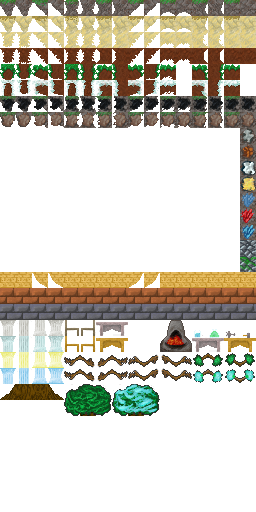
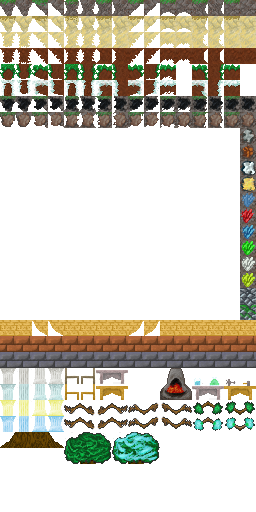
Gem update
Gems now spawn in the world.
Diamonds, sapphires, emeralds, and rubies now use the appropriate
texture.
Opal and Jasper now exists.
Pillar items have been removed.
Furniture and ores now use the correct textures.

Changed region(s): [[0.0, 0.4688, 1.0, 0.9062]]

diff --git a/TerraeRasa/TerraeRasa/src/blocks/Block.java b/TerraeRasa/TerraeRasa/src/blocks/Block.java
@@ -527,41 +527,41 @@ public class Block extends ActionbarItem
 			.setBlockHardness(1.0f).setIconIndex(2, 3).setPassable(true)
 			.setBlockType(2).setIsSolid(false);
 	public static Block tree = new BlockWood(9).setName("Tree").setTileMap('t')
-			.setBlockHardness(60.0f).setIconIndex(1, 24).setPassable(true)
+			.setBlockHardness(60.0f).setIconIndex(1, 27).setPassable(true)
 			.setBlockType(2).setIsSolid(false);
 	public static Block treebase = new BlockWood(10).setName("tree base")
-			.setTileMap('t').setBlockHardness(60.0f).setIconIndex(0, 24)
+			.setTileMap('t').setBlockHardness(60.0f).setIconIndex(0, 27)
 			.setPassable(true).setBlockType(2).setIsSolid(false);
 	public static Block treebranch = new BlockWood(12).setName("tree branch")
-			.setTileMap('b').setBlockHardness(5.0f).setIconIndex(4, 22)
+			.setTileMap('b').setBlockHardness(5.0f).setIconIndex(4, 25)
 			.setPassable(true).setIsSolid(false);
 	public static Block treetop = new BlockLeaves(20)
 			.setName("tree top left top").setTileMap('T')
-			.setBlockHardness(5.0f).setIconIndex(4, 24).setPassable(true)
+			.setBlockHardness(5.0f).setIconIndex(4, 27).setPassable(true)
 			.setIsSolid(false);
 	public static Block treetopl2 = new BlockLeaves(21)
 			.setName("tree top left bottom").setTileMap('T')
-			.setBlockHardness(5.0f).setIconIndex(4, 25).setPassable(true)
+			.setBlockHardness(5.0f).setIconIndex(4, 28).setPassable(true)
 			.setIsSolid(false);
 	public static Block treetopc1 = new BlockLeaves(22)
 			.setName("tree top center top").setTileMap('T')
-			.setBlockHardness(5.0f).setIconIndex(5, 24).setPassable(true)
+			.setBlockHardness(5.0f).setIconIndex(5, 27).setPassable(true)
 			.setIsSolid(false);
 	public static Block treetopc2 = new BlockLeaves(23)
 			.setName("tree top center bottom").setTileMap('T')
-			.setBlockHardness(5.0f).setIconIndex(5, 25).setPassable(true)
+			.setBlockHardness(5.0f).setIconIndex(5, 28).setPassable(true)
 			.setIsSolid(false);
 	public static Block treetopr1 = new BlockLeaves(24)
 			.setName("tree top right top").setTileMap('T')
-			.setBlockHardness(5.0f).setIconIndex(6, 24).setPassable(true)
+			.setBlockHardness(5.0f).setIconIndex(6, 27).setPassable(true)
 			.setIsSolid(false);
 	public static Block treetopr2 = new BlockLeaves(25)
 			.setName("tree top right bottom").setTileMap('T')
-			.setBlockHardness(5.0f).setIconIndex(6, 25).setPassable(true)
+			.setBlockHardness(5.0f).setIconIndex(6, 28).setPassable(true)
 			.setIsSolid(false);
-	public static Block gold = new BlockOre(26).setName("Bold Ore Block")
+	public static Block gold = new BlockOre(26).setName("Gold Ore Block")
 			.setBlockHardness(10.0f).setHRange(0).setLRange(3)
-			.setIconIndex(15, 12).setBlockType(1)
+			.setIconIndex(15, 11).setBlockType(1)
 			.setDroppedItem(new ItemStack(Item.goldOre), 1, 1);
 	public static Block iron = new BlockOre(27).setName("Iron Ore Block")
 			.setBlockHardness(10.0f).setHRange(5).setLRange(10)
@@ -572,28 +572,48 @@ public class Block extends ActionbarItem
 			.setBlockHardness(10.0f).setIconIndex(15, 7).setBlockType(1)
 			.setDroppedItem(new ItemStack(Item.coal), 1, 1);
 	public static Block diamond = new BlockOre(29).setName("Diamond Ore Block")
-			.setBlockHardness(10.0f).setHRange(0).setLRange(1)
-			.setIconIndex(15, 15).setBlockType(1)
+			.setBlockHardness(10.0f).setLRange(10)
+			.setIconIndex(15, 14).setBlockType(1)
 			.setDroppedItem(new ItemStack(Item.diamond), 1, 1);
-	public static Block copper = new BlockOre(30).setName("Copper Ore Block")
+	public static Block ruby = new BlockOre(30).setName("Ruby Ore Block")
+			.setBlockHardness(10.0f).setLRange(10)
+			.setIconIndex(15, 13).setBlockType(1)
+			.setDroppedItem(new ItemStack(Item.ruby), 1, 1);
+	public static Block sapphire = new BlockOre(31).setName("Sapphire Ore Block")
+			.setBlockHardness(10.0f).setLRange(10)
+			.setIconIndex(15, 12).setBlockType(1)
+			.setDroppedItem(new ItemStack(Item.sapphire), 1, 1);
+	public static Block emerald = new BlockOre(32).setName("Emerald Ore Block")
+			.setBlockHardness(10.0f).setLRange(10)
+			.setIconIndex(15, 15).setBlockType(1)
+			.setDroppedItem(new ItemStack(Item.emerald), 1, 1);
+	public static Block opal = new BlockOre(33).setName("Opal Ore Block")
+			.setBlockHardness(10.0f).setLRange(10)
+			.setIconIndex(15, 16).setBlockType(1)
+			.setDroppedItem(new ItemStack(Item.opal), 1, 1);
+	public static Block jasper = new BlockOre(34).setName("Jasper Ore Block")
+			.setBlockHardness(10.0f).setLRange(10)
+			.setIconIndex(15, 17).setBlockType(1)
+			.setDroppedItem(new ItemStack(Item.jasper), 1, 1);
+	public static Block copper = new BlockOre(35).setName("Copper Ore Block")
 			.setBlockHardness(55.0f).setHRange(20).setLRange(0)
-			.setIconIndex(15, 10).setBlockType(1)
-			.setDroppedItem(new ItemStack(Item.copperOre), 1, 1);
-	public static Block silver = new BlockOre(31).setName("Silver Ore Block")
-			.setBlockHardness(80.0f).setHRange(0).setLRange(5)
-			.setIconIndex(15, 11).setBlockType(1)
-			.setDroppedItem(new ItemStack(Item.silverOre), 1, 1);
-	public static Block tin = new BlockOre(32).setName("Tin Ore Block")
-			.setBlockHardness(55.0f).setHRange(10).setLRange(0)
 			.setIconIndex(15, 9).setBlockType(1)
+			.setDroppedItem(new ItemStack(Item.copperOre), 1, 1);
+	public static Block silver = new BlockOre(36).setName("Silver Ore Block")
+			.setBlockHardness(80.0f).setHRange(0).setLRange(5)
+			.setIconIndex(15, 10).setBlockType(1)
+			.setDroppedItem(new ItemStack(Item.silverOre), 1, 1);
+	public static Block tin = new BlockOre(37).setName("Tin Ore Block")
+			.setBlockHardness(55.0f).setHRange(10).setLRange(0)
+			.setIconIndex(15, 8).setBlockType(1)
 			.setDroppedItem(new ItemStack(Item.tinOre), 1, 1);
-	public static Block redflower = new Block(33).setName("Red Flower")
+	public static Block redflower = new Block(38).setName("Red Flower")
 			.setBlockHardness(10.0f).setIconIndex(0, 1).setPassable(true)
 			.setIsOveridable(true).setIsSolid(false);
-	public static Block yellowflower = new Block(34).setName("Yellow Flower")
+	public static Block yellowflower = new Block(39).setName("Yellow Flower")
 			.setBlockHardness(10.0f).setIconIndex(0, 1).setPassable(true)
 			.setIsOveridable(true).setIsSolid(false);
-	public static Block tallgrass = new Block(35).setName("Tall Grass")
+	public static Block tallgrass = new Block(40).setName("Tall Grass")
 			.setBlockHardness(10.0f).setIconIndex(0, 1).setPassable(true)
 			.setIsOveridable(true).setIsSolid(false);
 	public static Block snowCover = new Block(44).setName("Snow Cover")
@@ -605,19 +625,19 @@ public class Block extends ActionbarItem
 			.setLightStrengthAndRadius(1.0F, 10).setName("Torch")
 			.setBlockHardness(0.0f)
 			.overrideItemIcon(5, 0, Render.TEXTURE_SHEET_ITEMS)
-			.setIconIndex(0, 0).setPassable(true).setIsSolid(false);
+			.setPassable(true).setIsSolid(false);
 	public static Block adminium = new Block(49).setName("Adminium").setIsMineable(false)
 			.setBlockHardness(8000.0f).setIconIndex(0, 1);
 	public static Block plank = new Block(50).setName("Plank").setTileMap('g')
-			.setBlockHardness(30.0f).setIconIndex(0, 17).setBlockType(2);
+			.setBlockHardness(30.0f).setIconIndex(0, 20).setBlockType(2);
 	public static Block sapling = new Block(51).setName("Sapling")
 			.setBlockHardness(5.0f).setIconIndex(10, 4).setBlockType(2)
 			.setIsOveridable(true).setIsSolid(false);
 	public static Block furnace = new Block(52).setName("Furnace")
-			.setBlockHardness(50.0f).setIconIndex(12, 2).setBlockType(1)
+			.setBlockHardness(50.0f).setIconIndex(10, 23).setBlockType(1)
 			.setBothBlockWidthAndHeight(2, 2);
 	public static Block craftingTable = new Block(53).setName("Crafting table")
-			.setBlockHardness(50.0f).setIconIndex(14, 20).setBlockType(2)
+			.setBlockHardness(50.0f).setIconIndex(14, 23).setBlockType(2)
 			.setBothBlockWidthAndHeight(2, 2);
 	public static Block snow = new Block(54).setName("Snow Block")
 			.setBlockHardness(10.0f).setIconIndex(4, 1).setBlockType(1)
@@ -635,43 +655,39 @@ public class Block extends ActionbarItem
 	public static Block bookshelf = new Block(57).setName("Bookshelf")
 			.setIconIndex(4, 3).setBlockHardness(20.0f).setBlockType(2);
 	public static Block woodTable = new Block(58).setName("Wooden Table")
-			.setPassable(true).setBlockHardness(50.0f).setIconIndex(11, 1)
+			.setPassable(true).setBlockHardness(50.0f).setIconIndex(5, 24)
 			.setBlockType(2).setBothBlockWidthAndHeight(2, 1);
 	public static Block stoneTable = new Block(59).setName("Stone Table")
-			.setPassable(true).setBlockHardness(50.0f).setIconIndex(11, 0)
+			.setPassable(true).setBlockHardness(50.0f).setIconIndex(5, 23)
 			.setBlockType(1).setBothBlockWidthAndHeight(2, 1);
-	public static Block fenceLeft = new Block(60).setName("fence end left")
-			.setBlockHardness(50.0f).setIconIndex(2, 4).setBlockType(2);
 	public static Block fence = new Block(61).setName("Fence")
 			.setPassable(true).setBlockHardness(50.0f).setIconIndex(3, 4)
 			.setBlockType(2);
-	public static Block fenceRight = new Block(62).setName("fence end right")
-			.setBlockHardness(50.0f).setIconIndex(4, 4).setBlockType(2);
 	public static Block woodChairRight = new Block(63)
 			.setName("Right facing wood chair").setPassable(true)
-			.setBlockHardness(50.0f).setIconIndex(13, 1).setBlockType(2);
+			.setBlockHardness(50.0f).setIconIndex(5, 24).setBlockType(2);
 	public static Block woodChairLeft = new Block(64)
 			.setName("Left facing wood chair").setPassable(true)
-			.setBlockHardness(50.0f).setIconIndex(14, 1).setBlockType(2);
+			.setBlockHardness(50.0f).setIconIndex(4, 24).setBlockType(2);
 	public static Block stoneChairRight = new Block(65)
 			.setName("Right facing stone chair").setPassable(true)
-			.setBlockHardness(50.0f).setIconIndex(13, 0).setBlockType(1);
+			.setBlockHardness(50.0f).setIconIndex(5, 23).setBlockType(1);
 	public static Block stoneChairLeft = new Block(66)
 			.setName("Left facing stone chair").setPassable(true)
-			.setBlockHardness(50.0f).setIconIndex(14, 0).setBlockType(1);
+			.setBlockHardness(50.0f).setIconIndex(4, 23).setBlockType(1);
 
 	public static Block stonePillar = new BlockPillar(68)
 			.setName("Stone Pillar Block").setTileMap('p').setPassable(true)
-			.setBlockHardness(75.0f).setIconIndex(0, 20).setBlockType(1);
+			.setBlockHardness(75.0f).setIconIndex(0, 23).setBlockType(1);
 	public static Block marblePillar = new BlockPillar(71)
 			.setName("Marble Pillar Block").setTileMap('p').setPassable(true)
-			.setBlockHardness(75.0f).setIconIndex(0, 21).setBlockType(1);
+			.setBlockHardness(75.0f).setIconIndex(0, 24).setBlockType(1);
 	public static Block goldPillar = new BlockPillar(74)
 			.setName("Gold Pillar Block").setTileMap('p').setPassable(true)
-			.setBlockHardness(75.0f).setIconIndex(0, 22).setBlockType(1);
+			.setBlockHardness(75.0f).setIconIndex(0, 25).setBlockType(1);
 	public static Block diamondPillar = new BlockPillar(77)
 			.setName("Diamond Pillar Block").setTileMap('p').setPassable(true)
-			.setBlockHardness(75.0f).setIconIndex(0, 23).setBlockType(1);
+			.setBlockHardness(75.0f).setIconIndex(0, 26).setBlockType(1);
 
 	public static Block glass = new Block(79).setName("Glass Block")
 			.setBlockHardness(10.0f).setIconIndex(1, 3).setBlockType(1);

diff --git a/TerraeRasa/TerraeRasa/src/items/Item.java b/TerraeRasa/TerraeRasa/src/items/Item.java
@@ -266,10 +266,12 @@ public class Item extends ActionbarItem
 	public static Item silverOre = new Item(61).setIconPosition(0, 12).setName("Silver Ore");
 	public static Item goldOre = new Item(62).setIconPosition(0, 13).setName("Gold Ore");
 	public static Item coal = new Item(63).setIconPosition(1, 9).setName("Coal");
-	public static Item diamond = new Item(64).setIconPosition(0, 0).setName("Diamond");
-	public static Item ruby = new Item(65).setIconPosition(0, 0).setName("Ruby");
-	public static Item emerald = new Item(66).setIconPosition(0, 0).setName("Emerald");
-	public static Item sapphire = new Item(67).setIconPosition(0, 0).setName("Sapphire");
+	public static Item diamond = new Item(64).setIconPosition(2, 12).setName("Diamond");
+	public static Item ruby = new Item(65).setIconPosition(2, 11).setName("Ruby");
+	public static Item emerald = new Item(66).setIconPosition(2, 10).setName("Emerald");
+	public static Item sapphire = new Item(67).setIconPosition(2, 9).setName("Sapphire");
+	public static Item opal = new Item(68).setIconPosition(0, 0).setName("Opal");
+	public static Item jasper = new Item(69).setIconPosition(0, 0).setName("Jasper");
 	
 	public static Item copperHelmet = new ItemArmorHelmet(100).setArmorType(EnumArmor.COPPER).setIconPosition(16, 0).setName("Copper Helmet");
 	public static Item copperBody = new ItemArmorBody(101).setArmorType(EnumArmor.COPPER).setIconPosition(16, 1).setName("Copper Body");
@@ -348,11 +350,7 @@ public class Item extends ActionbarItem
 	public static Item silverCoin = new ItemCoin(201).setIconPosition(0, 0).setName("Silver Coin");
 	public static Item goldCoin = new ItemCoin(202).setIconPosition(0, 0).setName("Gold Coin");
 	public static Item platinumCoin = new ItemCoin(203).setIconPosition(0, 0).setName("Platinum Coin");
-	public static Item marblePillarEnd = new ItemPlacable(204, true).setIconPosition(4,9).setName("Marble Pillar");
-	public static Item stonePillarEnd = new ItemPlacable(205, true).setIconPosition(4,10).setName("Stone Pillar");
-	public static Item diamondPillarEnd = new Item(206).setIconPosition(4,11).setName("Diamond P");
-	public static Item goldPillarEnd = new Item(207).setIconPosition(4,12).setName("Gold P");
-	
+		
 	public static Item woodenArrow = new ItemAmmo(300).setProjectile(new EntityProjectile(7, 1, 1, 8f).setSpriteIndex(0, 1).setIsFriendly(true)).setIconPosition(5, 9).setName("Wooden Arrow");
 	public static Item bronzeArrow = new ItemAmmo(301).setProjectile(new EntityProjectile(10, 1, 1, 8f).setSpriteIndex(0, 2).setIsFriendly(true)).setIconPosition(5, 10).setName("Bronze Arrow");
 	public static Item ironArrow = new ItemAmmo(302).setProjectile(new EntityProjectile(13, 1, 1, 8f).setSpriteIndex(0, 3).setIsFriendly(true)).setIconPosition(5, 11).setName("Iron Arrow");

diff --git a/TerraeRasa/TerraeRasa/src/world/WorldGen.java b/TerraeRasa/TerraeRasa/src/world/WorldGen.java
@@ -159,6 +159,36 @@ public class WorldGen{
 		}
 	}	
 	
+	protected void gems(World world, int x, int w, int y, int h, Block[] placeableGems){
+		int minchance = 0;
+		int ore = 0;
+		Block gemc = Block.air;
+		for (int i = (y + h); i > y; i--){ //Go through the height
+			for (int j = x; j < (x + w); j++){ //go through the width
+				gemc = Block.air;
+				minchance = (int)(Math.random()*1000+1);	//Decide if an ore vein will be placed
+				if (minchance >=990 && world.getBlockGenerate(j, i).getID() == Block.stone.getID()){ // if a vein is to be placed						
+					if (i >= world.getHeight()/10 * 7){ //If it's instead in the bottom 3/10's
+						for (int k = 0; k < placeableGems.length; k++){
+							ore = (int)(Math.random()*100+1); //Determine which ore will be placed
+							if (ore <= placeableGems[k].getLRange()){
+								gemc = placeableGems[k];
+								break;
+							}
+							if (ore >= 80){
+								break;
+							}
+						}						
+					}
+					if (gemc.getID() != Block.air.getID()){ //If an ore is actually being placed				
+						oreplace(world, 3, j, i, gemc); //place the vein					
+					}
+				}
+			}
+		}
+		
+	}
+	
 	/**
 	 * Selects places to create veins of various ores
 	 * @param world - the current world.

diff --git a/TerraeRasa/TerraeRasa/src/world/WorldGenEarth.java b/TerraeRasa/TerraeRasa/src/world/WorldGenEarth.java
@@ -52,7 +52,8 @@ public class WorldGenEarth extends WorldGen
 	public World generate(World world, int xLoc, int width, int yLoc, int depth) 
 	{
 		System.gc();
-		Block[] placeableOres = {Block.tin, Block.copper, Block.iron, Block.coal, Block.silver, Block.gold, Block.diamond};
+		Block[] placeableOres = {Block.tin, Block.copper, Block.iron, Block.coal, Block.silver, Block.gold};
+		Block[] placeableGems = {Block.diamond, Block.ruby, Block.sapphire, Block.emerald, Block.opal, Block.jasper};
 		Biome[] biomes = generateBiomes(world);
 		assignBiomes(world, biomes);
 		count = 0;
@@ -68,6 +69,7 @@ public class WorldGenEarth extends WorldGen
 		stoneinter(world, xLoc, width, yLoc, depth);
 		cellauto(world, xLoc + 1, (xLoc + width) - 2, yLoc, (yLoc + depth) - 2);
 		ores(world, xLoc + 1, (xLoc + width) - 4, yLoc + 1, (yLoc + depth) - 11, placeableOres);
+		gems(world, xLoc + 1, (xLoc + width) - 4, yLoc + 1, (yLoc + depth) - 11, placeableGems);
 		System.gc();
 				
 		Biome biome;

diff --git a/TerraeRasa/TerraeRasa/src/utils/RecipeManager.java b/TerraeRasa/TerraeRasa/src/utils/RecipeManager.java
@@ -252,15 +252,11 @@ public class RecipeManager
 	Recipe stoneRightChair = new Recipe(this, new ItemStack(Block.stoneChairRight), Block.craftingTable, new ItemStack[]{
 		new ItemStack(Block.stone, 5)
 	});	
-	Recipe stonePillarEnd = new Recipe(this, new ItemStack(Item.stonePillarEnd), Block.craftingTable, new ItemStack[]{
-		new ItemStack(Block.stone, 2)
-	});	
+	
 	Recipe stonePillar = new Recipe(this, new ItemStack(Block.stonePillar), Block.craftingTable, new ItemStack[]{
 		new ItemStack(Block.stone, 2)
 	});	
-	Recipe diamondPillarEnd = new Recipe(this, new ItemStack(Item.diamondPillarEnd), Block.craftingTable, new ItemStack[]{
-		new ItemStack(Item.diamond, 2)
-	});	
+	
 	Recipe diamondPillar = new Recipe(this, new ItemStack(Block.diamondPillar), Block.craftingTable, new ItemStack[]{
 		new ItemStack(Item.diamond, 2)
 	});
